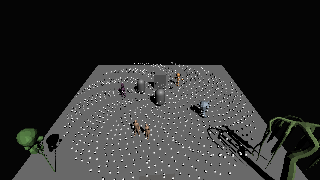
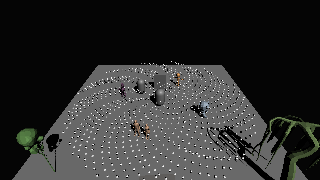
G-121: 技术前瞻路线图立项(三方向最小验证切片并行派发)

Changed region(s): [[0.1875, 0.3333, 0.8125, 1.0]]

diff --git a/Docs/TECH-ROADMAP.md b/Docs/TECH-ROADMAP.md
@@ -1,0 +1,34 @@
+# 技术前瞻路线图 —— 三大新方向（2026-11-04 立项）
+
+> 定位：**游戏本体后置，先技术储备**。每个方向走"最小验证切片 → 评估 → 全量投入"三段式。
+> 所有任务遵守 AGENTS.md 治理规则（施工/验收分离、落盘交接）。参考知识库：`.agents/skills/gamedev-course/references/k03-advanced-systems.md`（GOAP/效用AI/行为树）、`k04-engine-internals.md`（大世界/浮点/LOD/SRP）——子代理按需查阅。
+
+## 方向一：AI 自主 NPC / AI 队友（"不是按预设跑，是自己找事做"）
+
+**技术选型**：效用 AI（Utility AI）+ GOAP 混合。行为树只会"按条件分支"，做不到自主目标选择。
+**切片目标（A-TECH-01）**：3 个 NPC 在场景里自主决策——系统提供"可能的行动+代价/收益评估函数"，NPC 根据自身状态与世界状态**自己排序选择**（如：疲劳→去休息；发现掉落物→去捡；玩家靠近→跟随或战斗）。
+**验收口径**：EditMode 用例——同一世界状态输入下效用排序正确；改变状态后选择改变（自主性证据）；PlayMode 观察三个 NPC 行为分化（同起点不同行为路径）。
+**全量投入的前提**：切片通过 + 目标驱动规划（GOAP plan）原型可行。
+
+## 方向二：玩家装配系统（坎巴拉/旷野之息式）
+
+**技术选型**：Unity 物理关节（ConfigurableJoint）+ 连接点（AttachmentPoint）系统 + 手持/抓取交互（复用 InteractSystem）。
+**切片目标（A-TECH-02）**：场景里 3 种零件（方块/推进器/轮子）+ 连接点标记——玩家抓取零件靠近另一个零件的连接点→吸附预览（高亮）→释放后 ConfigurableJoint 连接成复合体→推进器点火（施加力）→复合体在物理下运动。零预制装配（全运行时构建）。
+**验收口径**：PlayMode——两零件连接后成为单一物理体（joint 断开即分离）；推进器力生效（位移证据）；零件可拆重装。
+**全量投入的前提**：切片稳定（不抖动不爆炸）+ 装配图数据结构（模块化载具的拓扑）原型。
+
+## 方向三：行星尺度无缝世界（飞出大气层/重力变化/贴图↔建模无缝）
+
+**技术选型**：三段难题拆解——
+1. **浮点精度**：远离原点 >10km 抖动 → 浮点原点重定位（floating origin：相机偏移超阈值时全场景平移回原点）
+2. **尺度过渡**：地表细节 → 高空地形块 LOD → 太空球体（"贴图↔建模无缝切换"= LOD 链+浮点尺度下的单位制）
+3. **重力系统**：球面重力（指向行星中心）替代平面重力，轨道速度概念验证
+**切片目标（B-TECH-03，原生 C++/窗口程序做——无 Unity 依赖，直接在 zrender 窗口程序验证数学与渲染）**：①浮点原点重定位演示：相机从原点飞到 100,000m 外再飞回，验证浮点累积误差被重定位消除（顶点抖动前后对比截图）②球面行星渲染雏形（半径 6.371e6 m 的球+简单高度着色，near/far 相机或对数深度）③球面重力下的抛物线轨迹可视化。
+**验收口径**：窗口程序 `--planet` 模式：100km 外无抖动（截图像素对比）+ 球面行星渲染 + 轨迹线符合球面重力预期（数值断言）。
+**全量投入的前提**：切片通过 + 与 Unity 侧集成方案设计（这是 Unity/自研双管线共享的世界组件）。
+
+## 排期与治理
+
+- 三个切片**并行派发**（三个施工代理），各自独立验收（变异/像素/数值证据）
+- 切片全过后，按用户裁决决定哪个先全量投入；未投入的切片成果保留（都是可复用组件）
+- 每个切片任务号：A-TECH-01 / A-TECH-02 / B-TECH-03

diff --git a/TASKS.md b/TASKS.md
@@ -162,3 +162,6 @@ Track B(续): R8(愿望清单前 4 项落地：FrameGovernor / Vulkan r5 / Addre
 | A-R9-17 | A/URP | URP 变体剥离真实收益（变体数 + 构建时长对照） | done(验收PASS with受限；0收益 7830→7830;21条规则结构性冗余;发现官方开关m_StripUnusedPostProcessingVariants=0) | Docs/Logs/TASK-A-R9-17.md | ea7df8e |
 | A-R9-18 | A/URP | 打开 m_StripUnusedPostProcessingVariants（已落地为 1） | done(验收PASS with受限；变体7830→7096 -9.4%;构建284.9→238.5s -16.3%;包体-175KB;Bloom/FinalPost/Particles未动;画面无可见回归;Android未验) | Docs/Logs/TASK-A-R9-18.md | 待填 |
 | A-R9-16 | A/R9 | URP 变体收敛（12288 变体成本中心） | done(superseded by A-R9-17/18)(验收 PASS with 受限；按降级出口交付；EditMode 916；14 是规则命中数非变体减少；真实构建收益未验证) | Docs/Logs/TASK-A-R9-16.md | acef951 |
+| A-TECH-01 | A/TECH | 自主 NPC 效用AI 最小切片 | doing | Docs/TECH-ROADMAP.md 方向一 | |
+| A-TECH-02 | A/TECH | 模块化装配系统最小切片 | doing | Docs/TECH-ROADMAP.md 方向二 | |
+| B-TECH-03 | B/TECH | 行星尺度:浮点原点+球面重力切片 | doing | Docs/TECH-ROADMAP.md 方向三 | |
